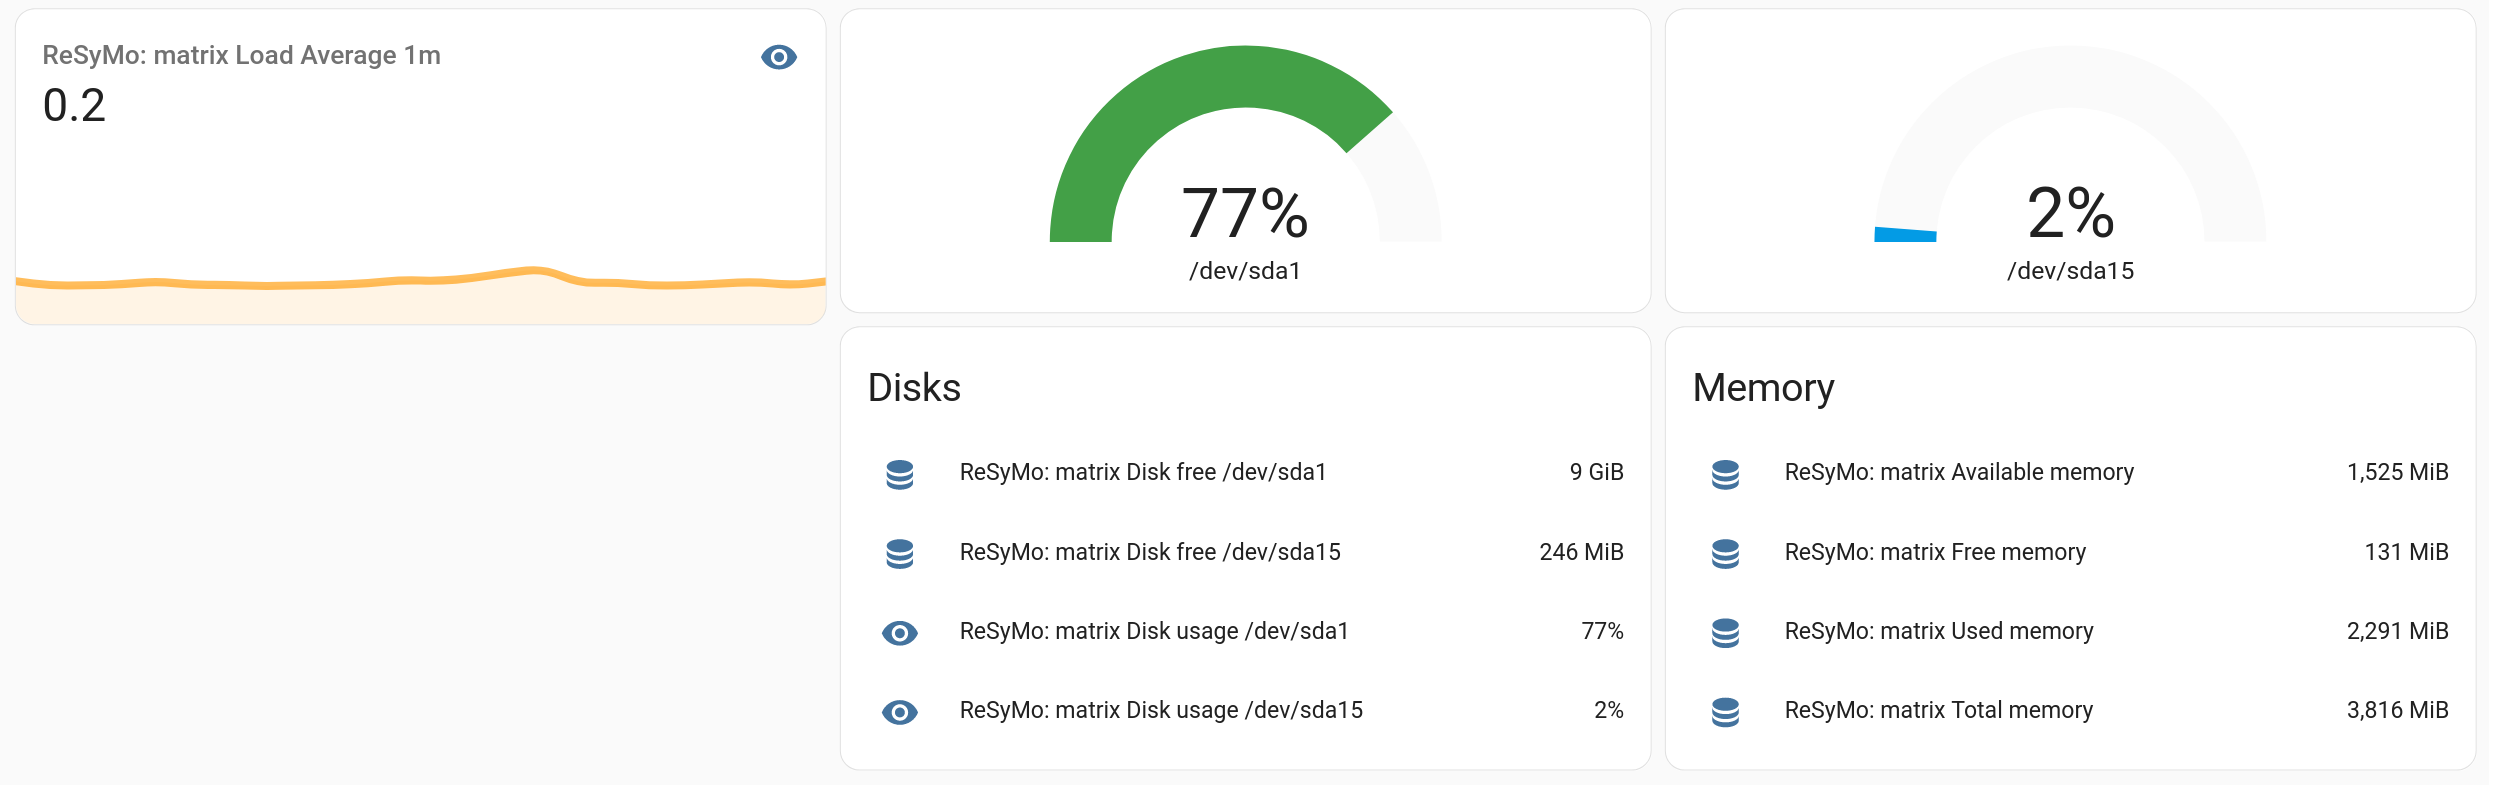
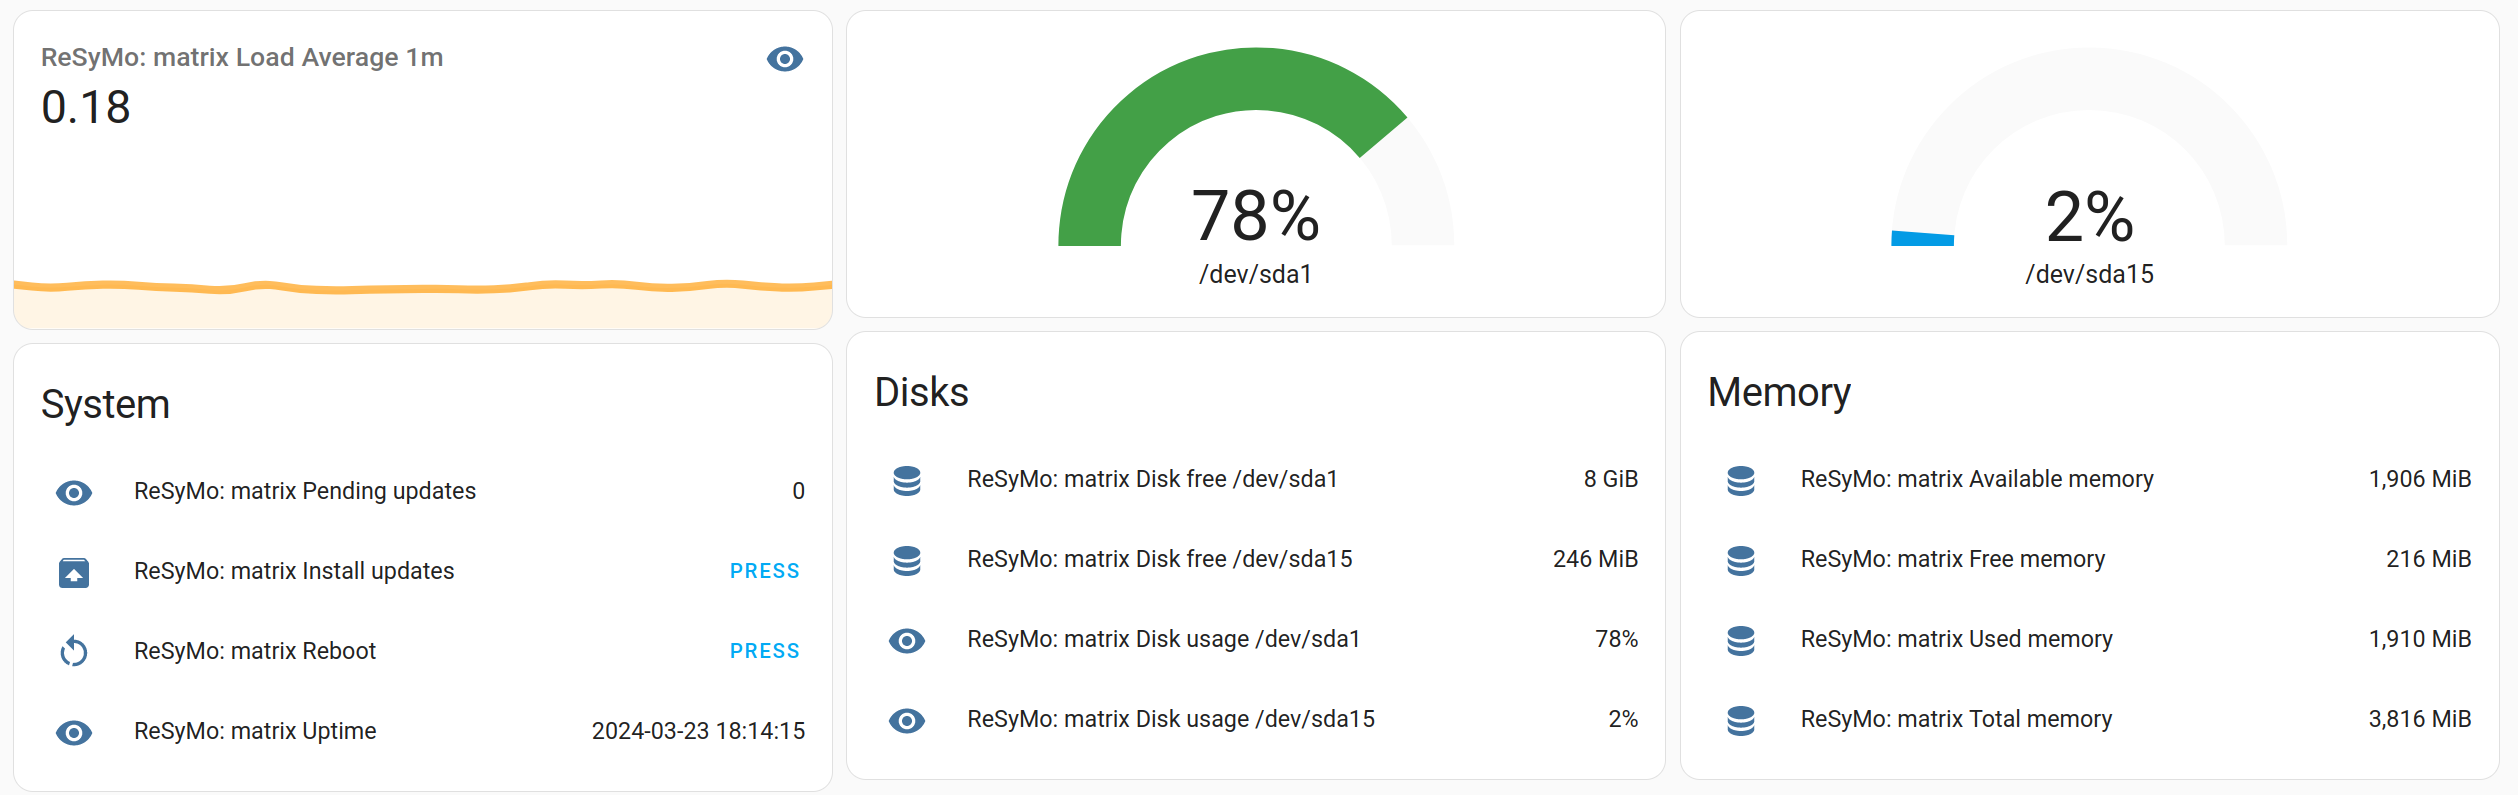
docs: update screenshot

diff --git a/docs/RECIPES.md b/docs/RECIPES.md
@@ -13,7 +13,8 @@ collectors:
         args:
           - -c
           - |
-            apt list --upgradable | wc -l
+            apt update &> /dev/null;
+            apt list --upgradable -qq | wc -l
         discovery:
           - name: Pending updates
             state_class: measurement
